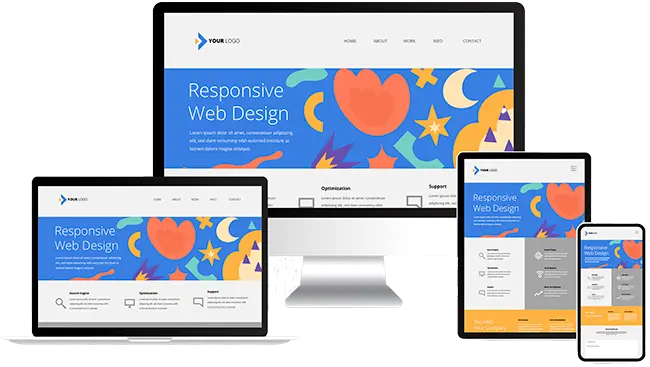
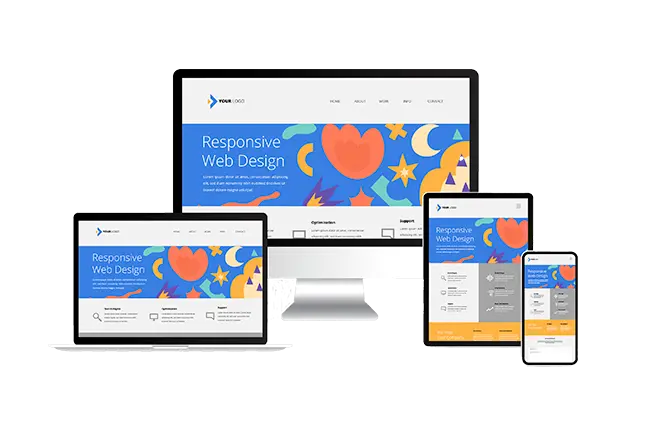
g

diff --git a/css/styles.css b/css/styles.css
@@ -305,13 +305,16 @@ background-repeat: repeat-x;
 }
 
 .devices {
-    margin-top: 70px;
     max-width: 100%;
     height: auto;
     position: relative;
     z-index: -1;
 }
-
+@media only screen and (max-width: 432px) {
+    .devices {
+        margin-top: 70px;
+    }
+}
 
 .monthly_subscription{
     padding-top: 30px;
